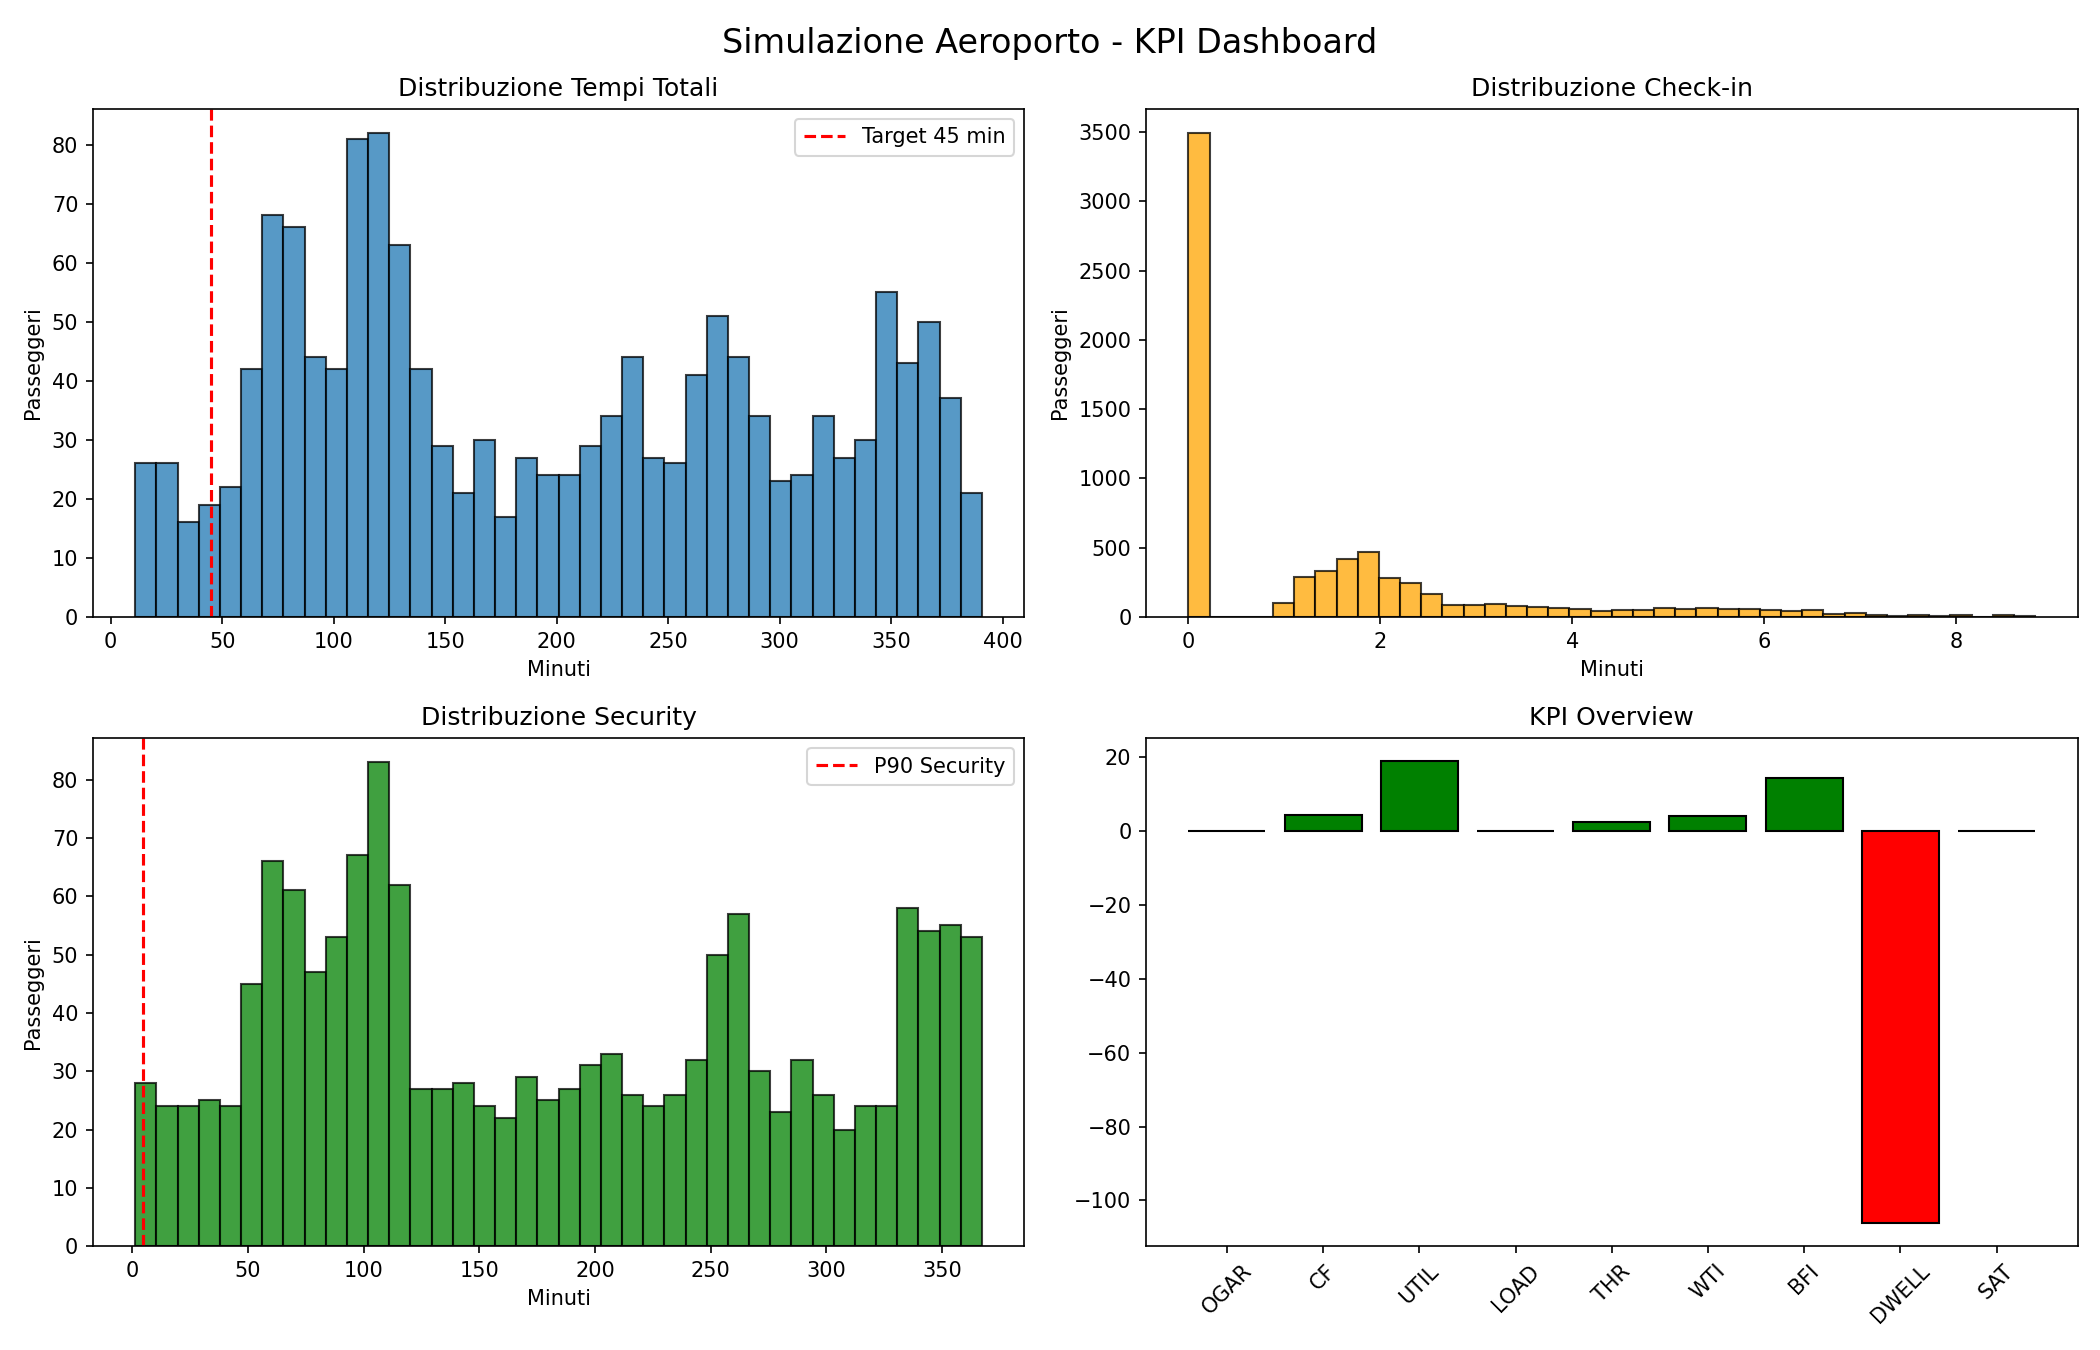
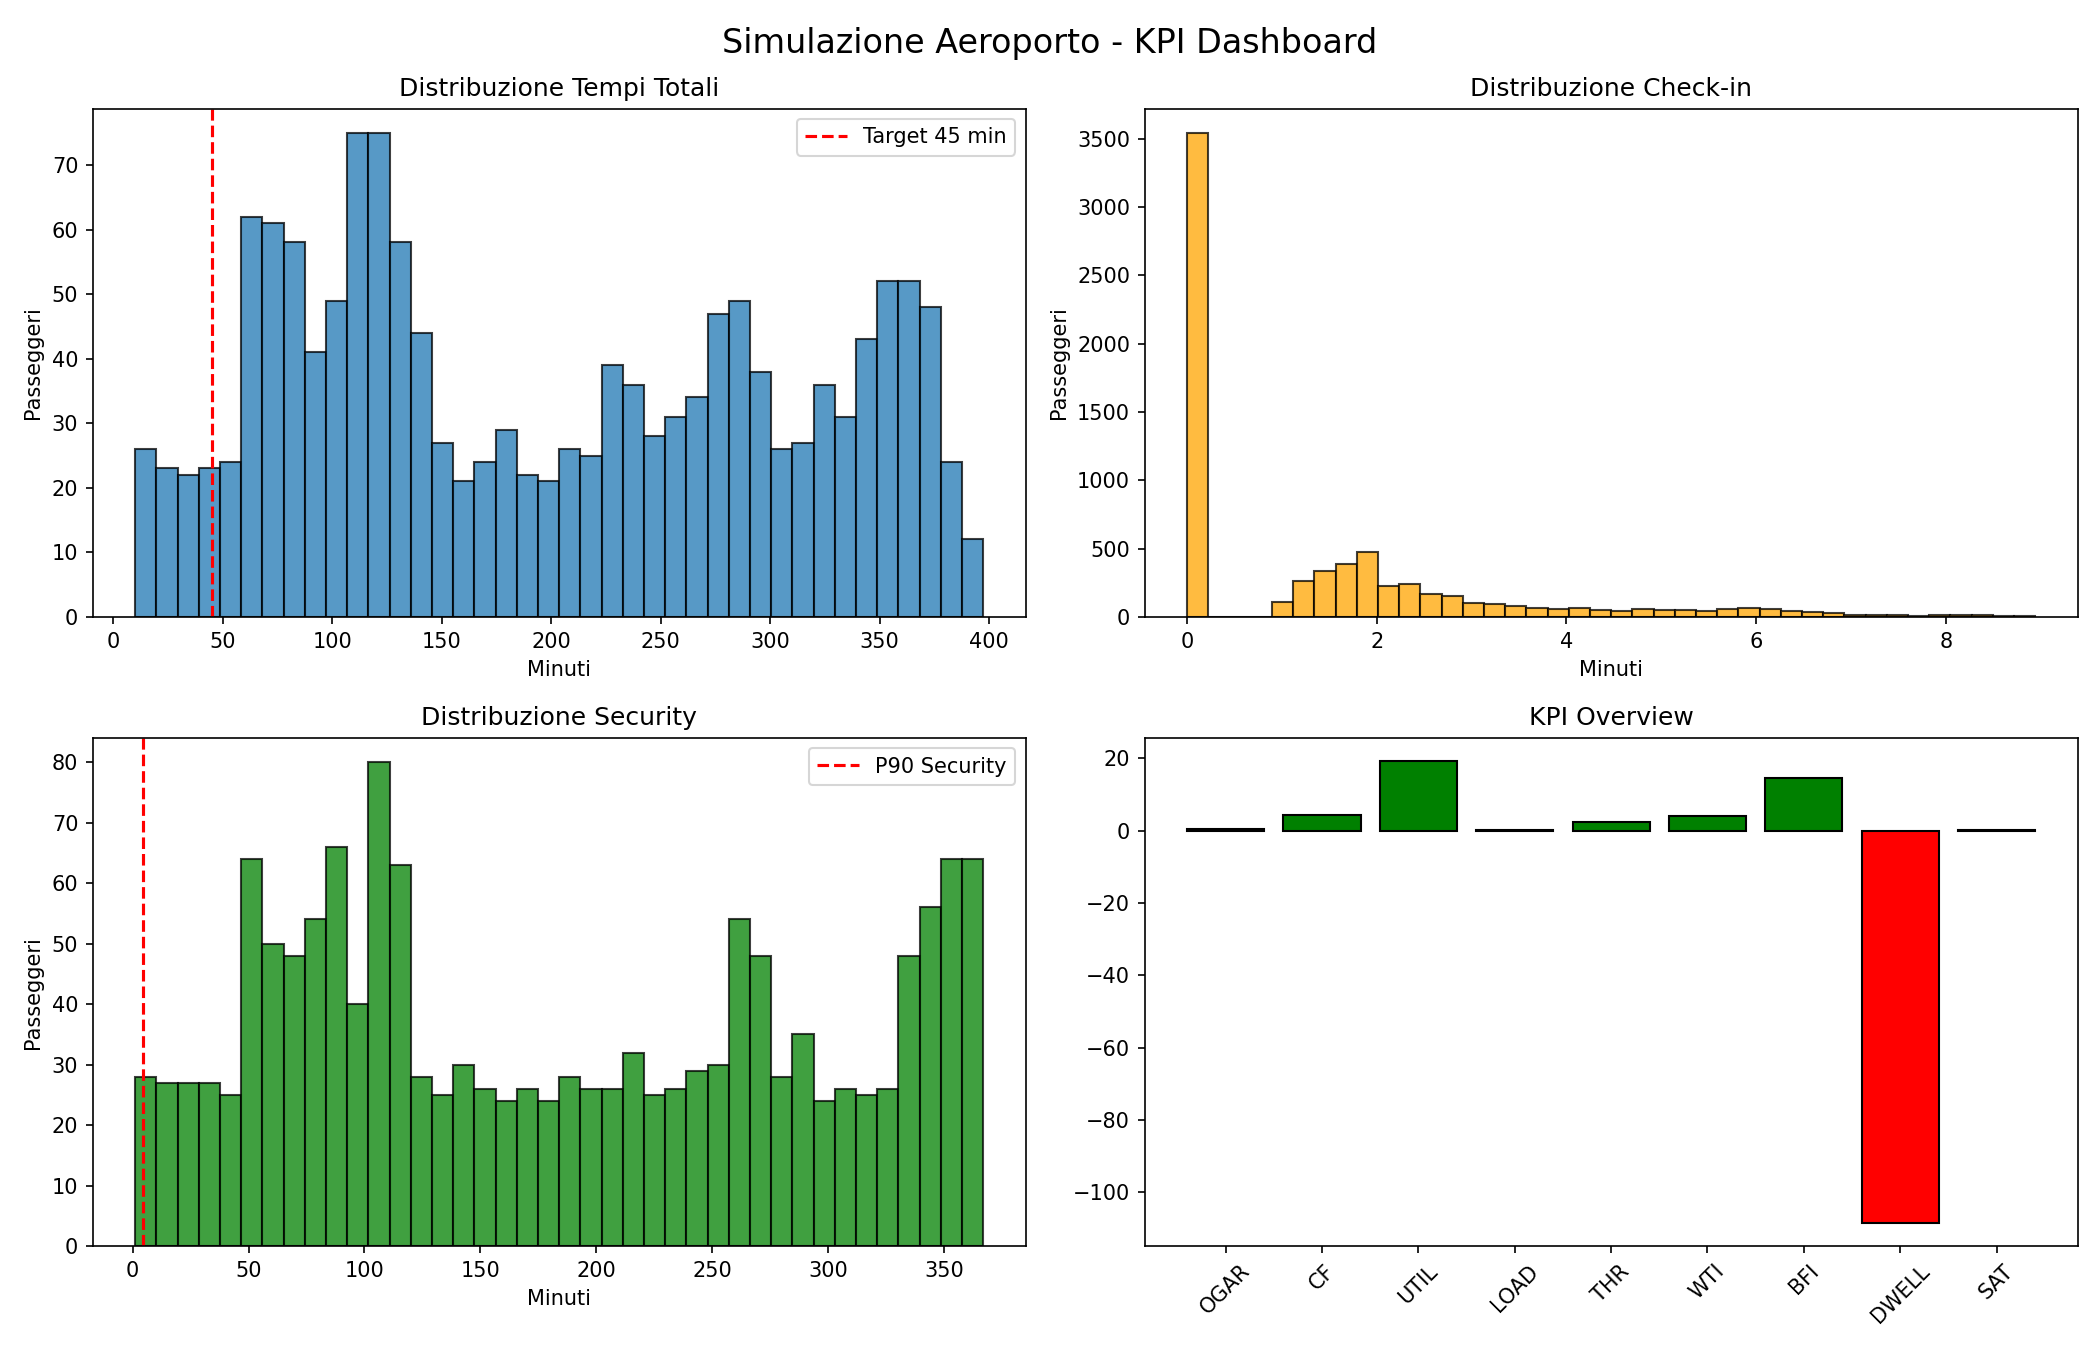
Creazione file excel con simulato l'intero anno

diff --git a/main.py b/main.py
@@ -21,7 +21,6 @@ from process import (
     eventi_congestione
 )
 
-
 TARGET_TEMPO = 45
 
 
@@ -32,181 +31,103 @@ def main():
     # ======================================
 
     df = prepara_data_simpy()
+    giorni = sorted(df["giorno"].unique())
+    print(f"Voli totali anno 2025: {len(df)}")
+    print(f"Simulo {len(giorni)} giorni separatamente...\n")
 
-    giorno = df.groupby(
-        "giorno"
-    ).size().idxmax()
-
-    df = df[
-        df["giorno"] == giorno
-    ]
-
-    durata = 600
+    durata_totale_simulata = 0
 
     # ======================================
-    # SIMPY
+    # LOOP SU TUTTI I GIORNI
     # ======================================
 
-    env = simpy.Environment()
+    for idx, giorno in enumerate(giorni):
 
-    checkin = simpy.Resource(
-        env,
-        capacity=BANCHI_CHECKIN_APERTI
-    )
+        df_giorno = df[df["giorno"] == giorno]
 
-    security = simpy.Resource(
-        env,
-        capacity=NASTRI_SECURITY
-    )
+        if len(df_giorno) == 0:
+            continue
 
-    env.process(
-        spawna_voli(
-            env,
-            df,
-            checkin,
-            security
+        # durata = ultimo volo del giorno + margine per finire i processi
+        ultimo_volo_ora = df_giorno["ora"].max()
+        durata = (ultimo_volo_ora + 4) * 60   # +4 ore di margine, in minuti
+
+        env = simpy.Environment()
+
+        checkin = simpy.Resource(env, capacity=BANCHI_CHECKIN_APERTI)
+        security = simpy.Resource(env, capacity=NASTRI_SECURITY)
+
+        env.process(
+            spawna_voli(env, df_giorno, checkin, security)
         )
-    )
 
-    env.run(until=durata)
+        env.run(until=durata)
+        durata_totale_simulata += durata
+
+        if (idx + 1) % 30 == 0:
+            print(f"  Simulati {idx+1}/{len(giorni)} giorni — "
+                  f"{len(tempi_totali)} passeggeri finora")
+
+    print(f"\nSimulazione completa — {len(giorni)} giorni, "
+          f"{len(tempi_totali)} passeggeri totali\n")
 
     # ======================================
-    # KPI BASE
+    # KPI BASE — calcolati su tutto l'anno
     # ======================================
 
     pax = len(tempi_totali)
 
-    tempo_totale_medio = np.mean(
-        tempi_totali
-    )
+    tempo_totale_medio = np.mean(tempi_totali)
 
-    ogar = (
-        sum(passeggeri_in_tempo)
-        / len(passeggeri_in_tempo)
-    )
+    ogar = sum(passeggeri_in_tempo) / len(passeggeri_in_tempo)
 
-    cf = (
-        tempo_totale_medio
-        / TARGET_TEMPO
-    )
+    cf = tempo_totale_medio / TARGET_TEMPO
 
-    throughput = pax / durata
+    throughput = pax / durata_totale_simulata
 
-    load = (
-        throughput
-        /
-        (
-            BANCHI_CHECKIN_APERTI
-            + NASTRI_SECURITY
-        )
-    )
+    load = throughput / (BANCHI_CHECKIN_APERTI + NASTRI_SECURITY)
 
-    dwell = (
-        np.mean(anticipi)
-        -
-        tempo_totale_medio
-    )
+    dwell = np.mean(anticipi) - tempo_totale_medio
 
-    tempo_attesa_tot = (
-        np.sum(attese_checkin)
-        +
-        np.sum(attese_security)
-    )
+    tempo_attesa_tot = np.sum(attese_checkin) + np.sum(attese_security)
 
-    wti = (
-        tempo_attesa_tot
-        /
-        (pax * TARGET_TEMPO)
-    )
+    wti = tempo_attesa_tot / (pax * TARGET_TEMPO)
 
-    bfi = (
-        eventi_congestione
-        / durata
-    )
+    bfi = eventi_congestione / durata_totale_simulata
 
     utilization = (
-        (
-            np.sum(tempi_checkin)
-            +
-            np.sum(tempi_security)
-        )
-        /
-        (
-            durata
-            *
-            (
-                BANCHI_CHECKIN_APERTI
-                +
-                NASTRI_SECURITY
-            )
-        )
+        (np.sum(tempi_checkin) + np.sum(tempi_security))
+        / (durata_totale_simulata * (BANCHI_CHECKIN_APERTI + NASTRI_SECURITY))
     )
 
     # capacità teorica
+    cap_checkin = BANCHI_CHECKIN_APERTI / np.mean(tempi_checkin)
+    cap_security = NASTRI_SECURITY / np.mean(tempi_security)
+    capacita = min(cap_checkin, cap_security)
 
-    cap_checkin = (
-        BANCHI_CHECKIN_APERTI
-        /
-        np.mean(tempi_checkin)
-    )
-
-    cap_security = (
-        NASTRI_SECURITY
-        /
-        np.mean(tempi_security)
-    )
-
-    capacita = min(
-        cap_checkin,
-        cap_security
-    )
-
-    gap = (
-        throughput
-        -
-        capacita
-    )
-
+    gap = throughput - capacita
     pac = capacita
-
     saturation = load
-
-    sigma = np.std(
-        tempi_totali
-    )
+    sigma = np.std(tempi_totali)
 
     # ======================================
     # STAMPA KPI
     # ======================================
 
-    print("\n========== KPI ==========\n")
-
-    print(f"PAX = {pax}")
-
+    print("\n========== KPI ANNO 2025 ==========\n")
+    print(f"PAX TOTALI = {pax}")
     print(f"OGAR = {ogar:.3f}")
-
     print(f"UTILIZATION = {utilization:.3f}")
-
     print(f"LOAD = {load:.3f}")
-
     print(f"GAP = {gap:.3f}")
-
     print(f"DWELL = {dwell:.3f}")
-
     print(f"THROUGHPUT = {throughput:.3f}")
-
     print(f"PAC = {pac:.3f}")
-
     print(f"CF = {cf:.3f}")
-
     print(f"WTI = {wti:.3f}")
-
     print(f"TEMPO TOTALE MEDIO = {tempo_totale_medio:.3f}")
-
     print(f"BFI = {bfi:.3f}")
-
     print(f"SATURATION = {saturation:.3f}")
-
     print(f"SIGMA = {sigma:.3f}")
 
     # ======================================
@@ -214,47 +135,27 @@ def main():
     # ======================================
 
     risultati = pd.DataFrame([{
-
-        "GIORNO": str(giorno),
-
+        "PERIODO": "Anno 2025 completo",
+        "GIORNI_SIMULATI": len(giorni),
+        "PAX_TOTALI": pax,
         "OGAR": ogar,
-
         "UTILIZATION": utilization,
-
         "LOAD": load,
-
         "GAP": gap,
-
         "DWELL": dwell,
-
         "THROUGHPUT": throughput,
-
         "PAC": pac,
-
         "CF": cf,
-
         "WTI": wti,
-
-        "TEMPO TOTALE MEDIO": tempo_totale_medio,
-
+        "TEMPO_TOTALE_MEDIO": tempo_totale_medio,
         "BFI": bfi,
-
-        "SATURATION": saturation
-
+        "SATURATION": saturation,
+        "SIGMA": sigma
     }])
 
-    risultati.to_excel(
-        "output_kpi.xlsx",
-        index=False
-    )
-
-    print(
-        "\nExcel salvato: output_kpi.xlsx"
-    )
+    risultati.to_excel("output_kpi_2025.xlsx", index=False)
+    print("\nExcel salvato: output_kpi_2025.xlsx")
 
 
-
-main()
-
-from plotting import grafici
-grafici()
+if __name__ == "__main__":
+    main()